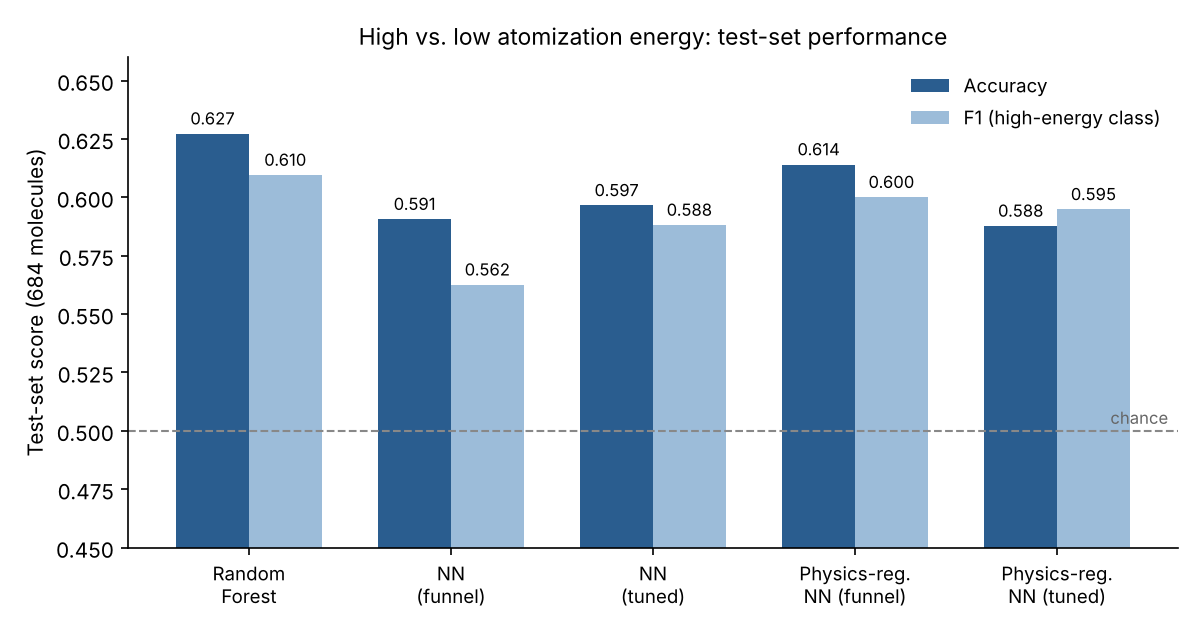
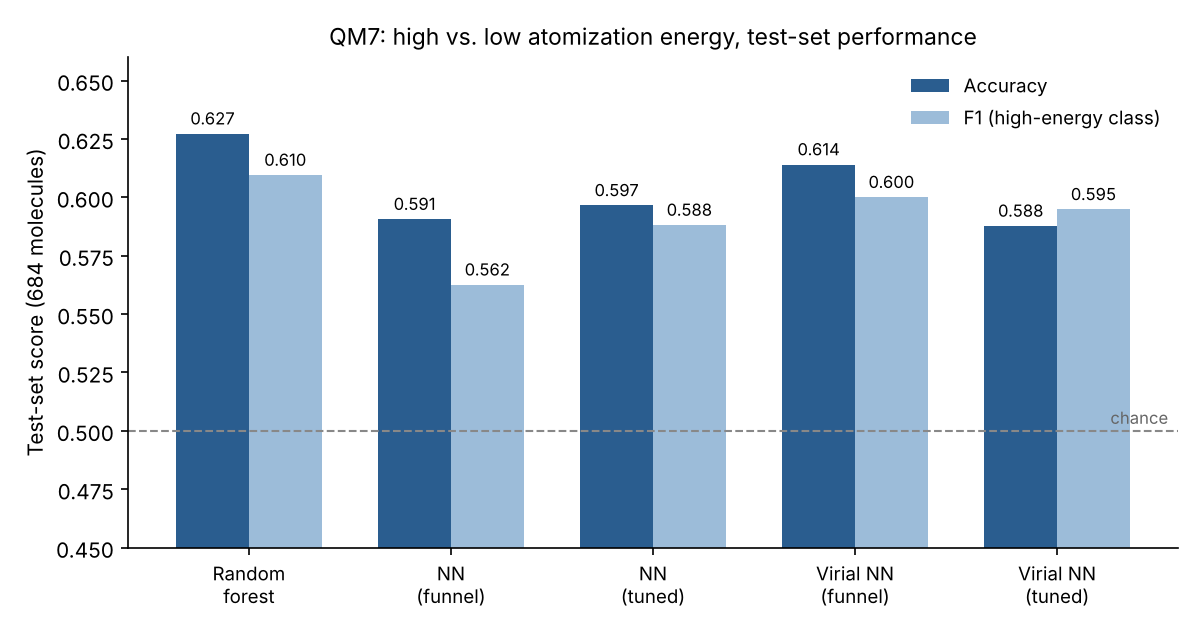
Restructure molecular project into QM7 to QM9 series (draft)

diff --git a/projects/qm7-energy-classification.md b/projects/qm7-energy-classification.md
@@ -1,34 +1,32 @@
-# Can a physics constraint help a neural network classify molecular energies?
+# Physics constraints for molecular machine learning: from QM7 to QM9
 
-**Classifying 7,165 small molecules as high or low atomization energy from their Coulomb matrices, and testing whether adding the virial theorem to the loss helps a neural network.**
+**One question, followed through two datasets: does building physics into a neural network's loss make it learn better? Part 1 found a constraint that looked like it helped but couldn't actually bind. Part 2 tests one that can.**
+
+| | Part 1: QM7 | Part 2: QM9 |
+|---|---|---|
+| Task | classify molecules as high or low atomization energy | relax a distorted geometry back to equilibrium |
+| Input | flattened Coulomb matrix | atom types and 3D coordinates |
+| Model | random forest, dense neural networks | E(n)-equivariant graph network |
+| Physics term | virial theorem 2⟨T⟩ + ⟨V⟩ = 0 on two auxiliary heads | energy loss on interatomic distances (NeurIPS 2025), plus two variations of my own |
+| Status | complete, with diagnosis | in progress |
+
+## Part 1: QM7
 
 ```{image} ../_static/figs/qm7/coulomb_matrix.png
 :alt: Coulomb matrix heatmap for one molecule in QM7
-:width: 420px
+:width: 380px
 :align: center
 ```
 
-## Why it matters
+**Setup.** QM7 holds 7,165 small molecules with DFT atomization energies. Each molecule is encoded as a **Coulomb matrix**: the diagonal holds the atomic self-energies (0.5·Z^2.4) and the off-diagonal entries the nuclear repulsion between atom pairs (ZᵢZⱼ/|Rᵢ−Rⱼ|). I flattened each matrix into 529 standardized features and classified molecules as above or below the training-set median energy, using DeepChem's train/validation/test sets (5,470 / 684 / 684).
 
-Density functional theory (DFT) computes molecular energies accurately, but its cost grows steeply with system size. A machine-learning surrogate trained on DFT results can screen candidate molecules orders of magnitude faster. The open question is whether physics can be built into such a surrogate so its predictions are not only accurate but physically consistent.
+**Models.**
 
-## Setup
+* a random forest;
+* a funnel network, 529 → 256 → 128 → 64 → 32 → 2, with 179k parameters;
+* a network found by Bayesian architecture search (412 trials): an unexpected *diamond* shape, 529 → 64 → 416 → 224 → 256 → 128 → 2, with 245k parameters.
 
-- **Data:** the QM7 benchmark (via DeepChem/MoleculeNet), with 7,165 molecules of up to 23 atoms.
-- **Representation:** the **Coulomb matrix**. The diagonal holds the atomic self-energies (0.5·Z^2.4) and the off-diagonal entries hold the pairwise nuclear repulsion (ZᵢZⱼ/|Rᵢ−Rⱼ|). Each 23 × 23 matrix is flattened to 529 features and standardized.
-- **Task:** classify each molecule as above or below the median atomization energy. The median comes from the training set only, so no test information leaks in.
-- **Split:** DeepChem's own train/validation/test sets (5,470 / 684 / 684 molecules).
-
-## Models
-
-1. **Random forest** (100 trees), a non-parametric baseline.
-2. **Funnel neural network**: 529 → 256 → 128 → 64 → 32 → 2, with dropout and 179k parameters.
-3. **Tuned neural network.** A Bayesian search (Keras Tuner, 412 trials over about two hours) settled on an unexpected *diamond* shape, 529 → 64 → 416 → 224 → 256 → 128 → 2, with 245k parameters. Repeated searches returned different architectures, which hints at a rugged loss landscape.
-4. **Physics-regularized versions of both networks.** I added two auxiliary output heads for kinetic energy ⟨T⟩ and potential energy ⟨V⟩, and penalized violations of the **virial theorem**, 2⟨T⟩ + ⟨V⟩ = 0:
-
-   *Loss* = *cross-entropy* + λ · mean(2T + V)², with λ = 0.01
-
-## Results (test set, 684 molecules)
+**The physics term.** At equilibrium the virial theorem links kinetic and potential energy: 2⟨T⟩ + ⟨V⟩ = 0. I gave each network two extra output heads for ⟨T⟩ and ⟨V⟩ and added λ·mean(2T + V)² to the loss.
 
 ```{image} ../_static/figs/qm7/results.png
 :alt: Accuracy and F1 for the five models
@@ -41,30 +39,63 @@ Density functional theory (DFT) computes molecular energies accurately, but its 
 | **Random forest** | **0.627** | **0.644** | 0.579 | **0.610** |
 | NN, funnel | 0.591 | 0.608 | 0.523 | 0.563 |
 | NN, tuned | 0.597 | 0.604 | 0.573 | 0.588 |
-| Physics-regularized NN, funnel | 0.614 | 0.627 | 0.576 | 0.600 |
-| Physics-regularized NN, tuned | 0.588 | 0.588 | 0.602 | 0.595 |
+| Virial NN, funnel | 0.614 | 0.627 | 0.576 | 0.600 |
+| Virial NN, tuned | 0.588 | 0.588 | 0.602 | 0.595 |
 
-## What I took away
+### What worked
 
-- **The random forest beat every neural network.** With about 5,000 training molecules and a flattened representation, trees found the decision boundary more reliably than networks with 180–245k parameters. The networks reached about 98% training accuracy but about 60% on validation, a clear sign of overfitting.
-- **The physics term gave the funnel network a small lift, from 59.1% to 61.4%, but I wouldn't over-read it.** The gain is within the run-to-run spread I saw when re-training. And because ⟨T⟩ and ⟨V⟩ have no ground-truth labels, the network can satisfy the virial constraint trivially, for example by driving both toward zero. The near-zero residuals below can't tell that apart from genuine physics. Here the physics term behaves more like a regularizer on the shared layers than a real physical constraint.
+* A clean, leak-free pipeline: labels from the training median only, and scaling fitted on training data.
+* A useful negative result on capacity. The random forest beat networks with 180–245k parameters, which reached about 98% training accuracy but stalled near 60% on validation.
+
+### What didn't
+
+* **The gain from the physics term isn't robust.** It lifted the funnel network from 59.1% to 61.4% in one run, but in a later rerun the virial version scored slightly *below* the plain one (60.2% vs 60.7%).
+* **The constraint can't bind.** Both auxiliary heads read the same hidden vector **h**, so 2T + V = (2w_T + w_V)·**h** + (2b_T + b_V). Setting w_V = −2w_T and b_V = −2b_T makes the residual exactly zero for every molecule, whatever **h** contains. QM7 has no labels for ⟨T⟩ or ⟨V⟩, so nothing anchors them to real values. The tight residual distribution below therefore looked like physical consistency but isn't evidence of it.
 
 ```{image} ../_static/figs/qm7/virial_residual.png
 :alt: Distribution of virial residuals 2T + V on the test set
-:width: 640px
+:width: 620px
 :align: center
 ```
 
-- **The representation is the bottleneck.** Flattening the Coulomb matrix throws away its 2-D structure and makes it depend on atom ordering. It also says nothing directly about orbital hybridization or electronic shielding.
+### What I learned
 
-## What I'd do next
+A physics term only helps if it is:
 
-- **Make the physics constraint bite:** supervise ⟨T⟩ and ⟨V⟩ with computed values, or move to **regression** of the energy itself, where a continuous physical law can actually shape the predictions.
-- **Use a better representation:** sorted or eigenvalue Coulomb features, a CNN treating the matrix as an image, or a graph neural network.
-- **Reduce and structure the inputs:** PCA to denoise the 529 features, and clustering to find chemical families before classifying.
+1. **anchored to data**, comparing predictions with something measured rather than relating unlabelled outputs to each other; and
+2. **not trivially satisfiable**, with no shortcut that zeroes the penalty without learning the physics.
 
-**Tools:** Python, DeepChem, RDKit, TensorFlow/Keras, Keras Tuner, scikit-learn, Google Colab
+A third point is about representation: the model should respect the problem's symmetries by construction. A flattened Coulomb matrix changes when the atoms are renumbered, which Montavon et al. (2012) handled by randomly permuting the matrices during training.
+
+## Bridge: why QM9 and the energy loss
+
+[*Energy Loss Functions for Physical Systems*](https://arxiv.org/abs/2511.02087) (NeurIPS 2025) treats each reference structure as the bottom of an energy well and charges a prediction the energy needed to deform the reference into it:
+
+E(ŷ, y) = Σᵢ<ⱼ ½ kᵢⱼ ( ‖yᵢ − yⱼ‖ − ‖ŷᵢ − ŷⱼ‖ )²
+
+It satisfies both requirements from Part 1. It is anchored to the true interatomic distances, and the only way to zero it is to reproduce the reference geometry. Because it uses distances alone, it is also invariant to rotation and translation without any alignment step.
+
+It needs a model whose output is a **geometry**, which my QM7 setup didn't have. QM9 (about 130k molecules with 3D coordinates and bond lists) is the standard benchmark for geometry-aware models, and it's large enough to test the paper's claim that the gains are biggest with little data.
+
+## Part 2: QM9 geometry relaxation (in progress)
+
+**Task.** Displace the atoms of QM9 equilibrium geometries by Gaussian noise and train an E(n)-equivariant graph network to recover the relaxed structure.
+
+**Losses compared:**
+
+* coordinate MSE;
+* MSE after optimal alignment;
+* the paper's energy loss with distance-decay springs;
+* **two variations of my own:**
+  * **Coulomb-curvature springs** kᵢⱼ ∝ ZᵢZⱼ/d³ᵢⱼ, the second derivative of the same nuclear repulsion that defined the QM7 features;
+  * **bond-graph springs**, stiff on bonded and angle-defining pairs and soft elsewhere, like a minimal force field.
+
+**Two regimes.** In the *aligned* regime the noisy input keeps the reference orientation. In the *frame-free* regime the input is also randomly rotated, which mirrors the paper's argument that MSE breaks down when orientation is ambiguous.
+
+**Evaluation**, deliberately independent of the training losses: aligned RMSD, bond-length and angle errors, whether covalent connectivity is recovered, and the MMFF force-field energy of each predicted geometry. Training sets of 1k, 10k and 50k molecules test the low-data claim.
 
 ```{note}
-TODO: link the notebook.
+Results will be added here once the full QM9 runs are complete.
 ```
+
+**Tools:** Python, DeepChem, RDKit, TensorFlow/Keras, Keras Tuner, scikit-learn, PyTorch, PyTorch Geometric, Google Colab

diff --git a/intro.md b/intro.md
@@ -38,11 +38,11 @@ I complete an **MS in Data Science** at Lewis University in December 2026.
 27 GB of cycling data → 32 physics features → ROC-AUC 0.954, with every early degrader in the test set caught.
 :::
 
-:::{grid-item-card} Physics-constrained molecular energy classification
+:::{grid-item-card} Physics constraints for molecular ML: QM7 → QM9
 :link: projects/qm7-energy-classification
 :link-type: doc
 :img-top: _static/figs/qm7/coulomb_matrix.png
-Coulomb matrices, neural networks and a virial-theorem loss on 7,165 molecules.
+Why a virial-theorem loss couldn't bind on QM7, and testing a NeurIPS 2025 energy loss on QM9 instead.
 :::
 
 :::{grid-item-card} Battery curve-fitting agent
